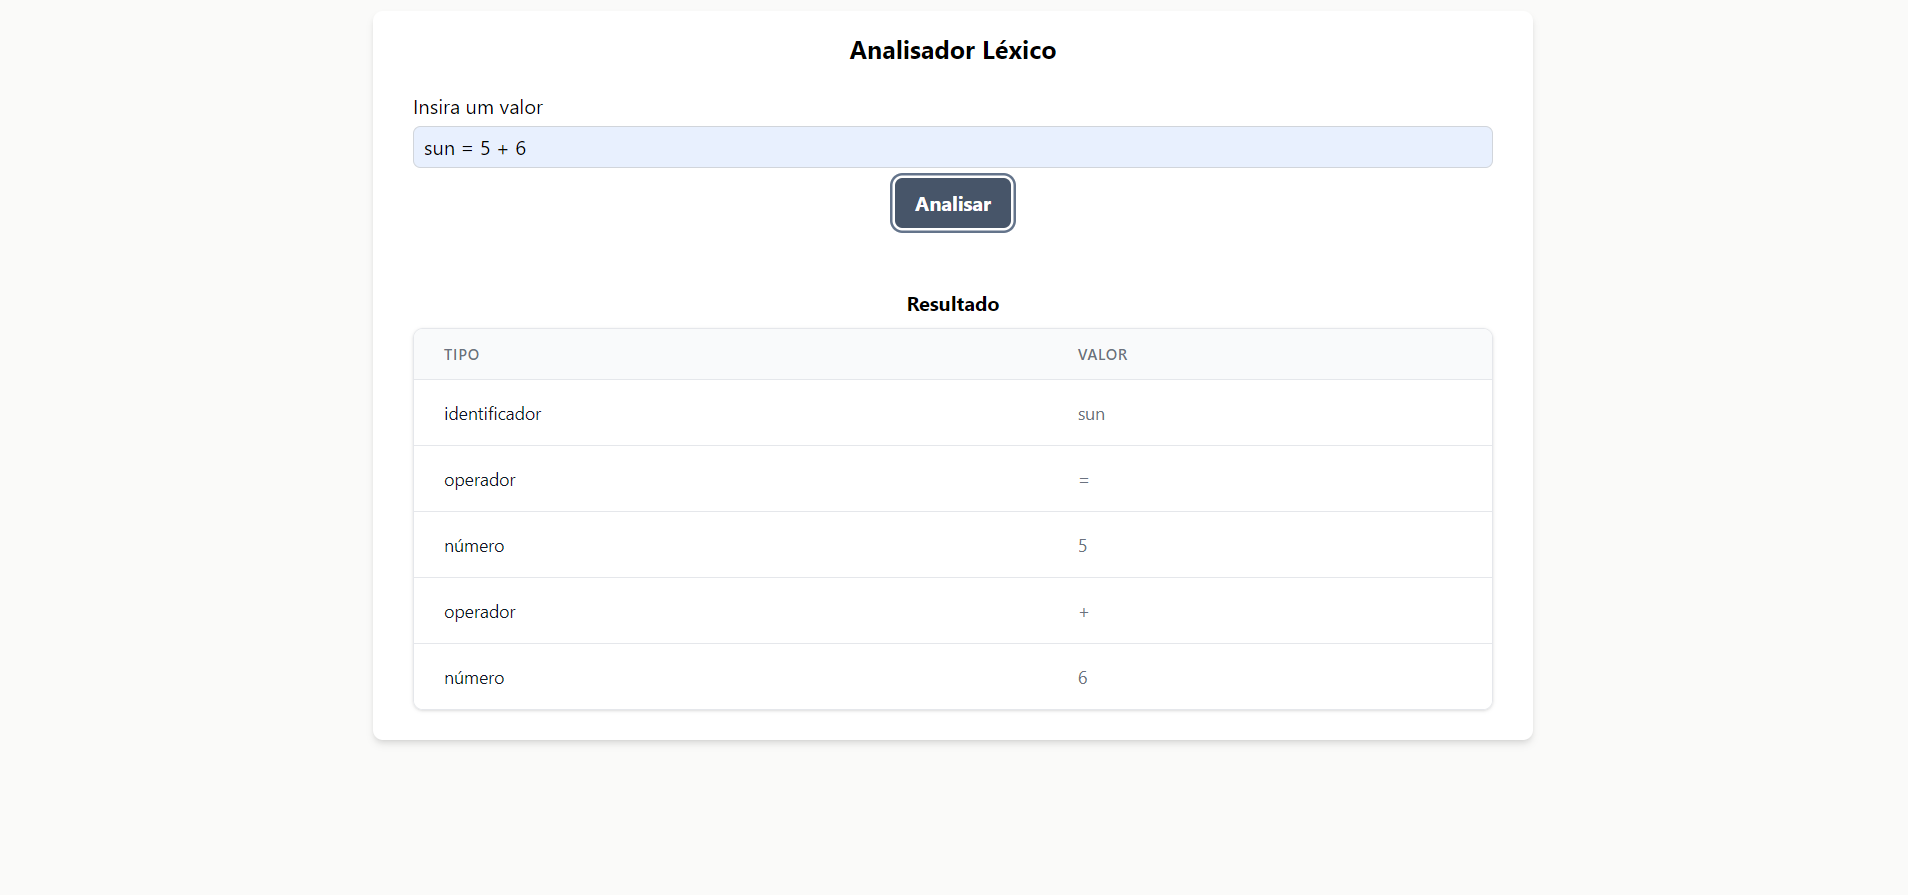
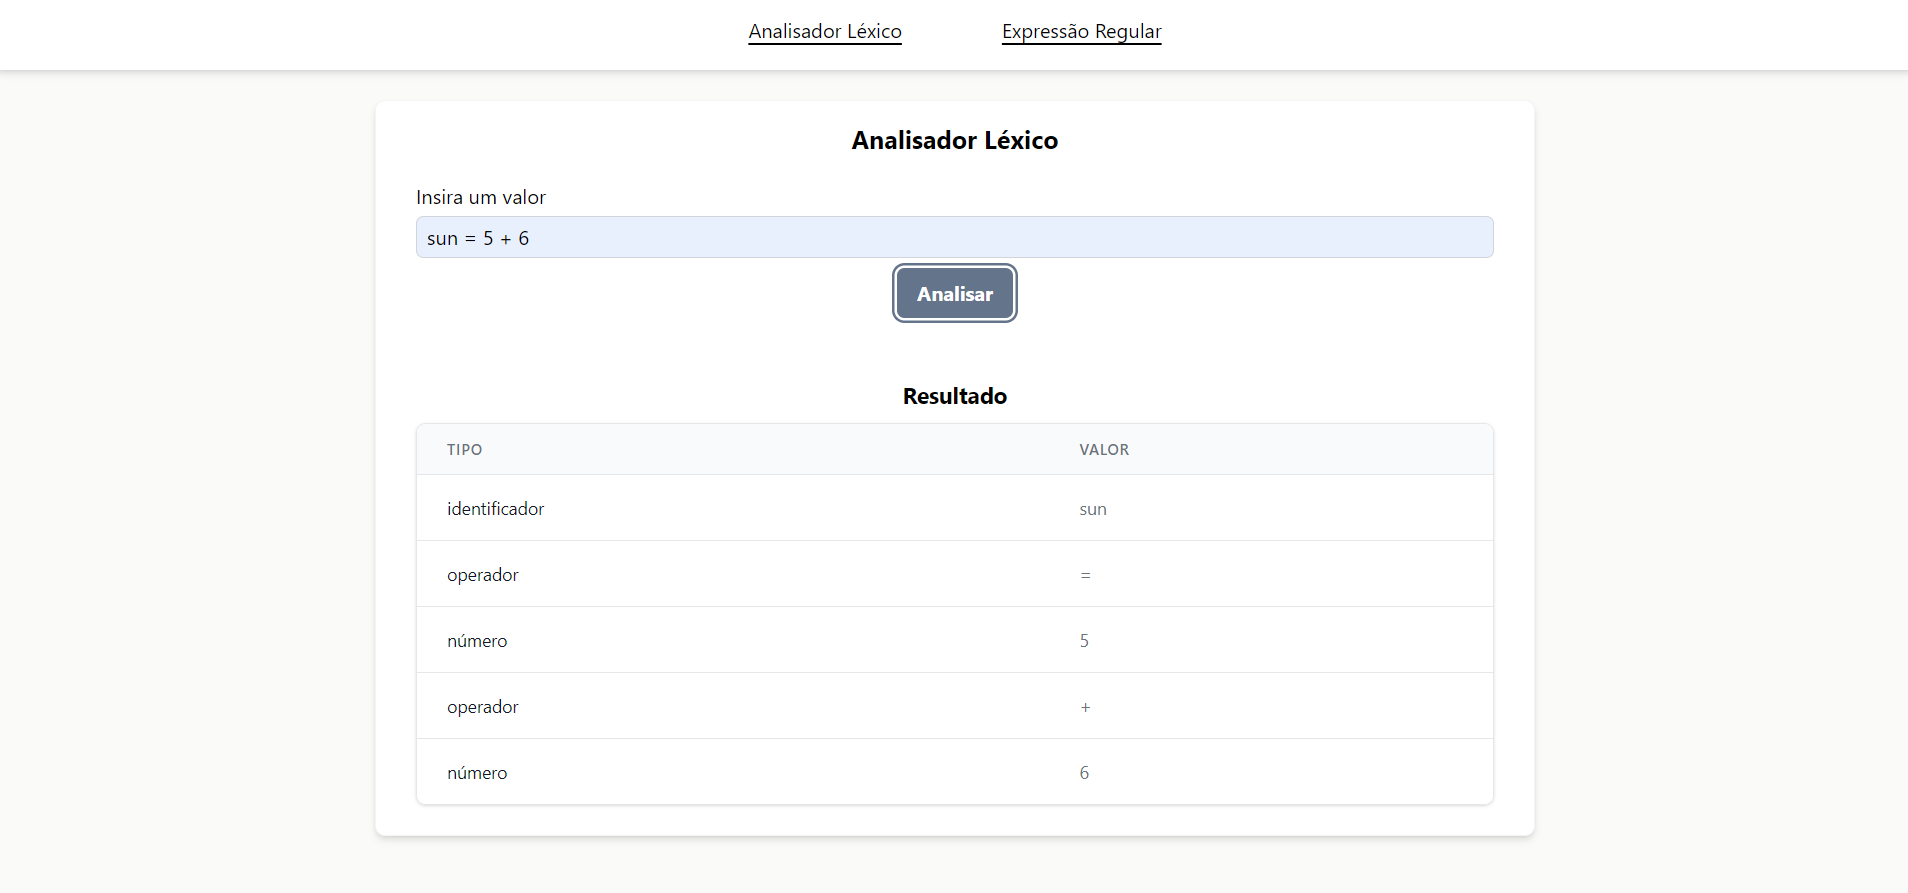
feat: update readme.md

diff --git a/README.md b/README.md
@@ -36,5 +36,10 @@ Code Analysis é um projeto que visa ter a implementação de conceitos de Copil
 
 ### Códigos Principais
 
-- **Análise léxica:** O código responsável por realizar a análise léxica, encontra-se [aqui](https://github.com/paulobeckman/code-analysis/blob/development/src/utils/lexicalAnalyzer.ts). Esse código é executado, quando se insere um valor [no input dessa página](https://code-analysis.netlify.app/):
+- **Análise léxica:** O código responsável por realizar a análise léxica, encontra-se [aqui](https://github.com/paulobeckman/code-analysis/blob/development/src/utils/lexicalAnalyzer.ts). Esse código é executado, quando se insere um valor [no input dessa página](https://code-analysis.netlify.app/lexical):
+
   <img alt="code-analysis" title="#code-analysis" src="./github-assets/lexicalAnalyzer.png" width="800px">
+<br/>
+
+- **Teste de expressões regulares:** O código responsável por realizar o teste de expressões regulares, encontra-se [aqui](https://github.com/paulobeckman/code-analysis/blob/development/src/utils/regularExpressions.ts). Essas duas funções são utilizadas para testar as expressões regulares, que são informadas no input, juntamente com a string que será testada [veja aqui nessa página](https://code-analysis.netlify.app/regex):
+  <img alt="code-analysis" title="#code-analysis" src="./github-assets/regularExpressions.png" width="800px">
